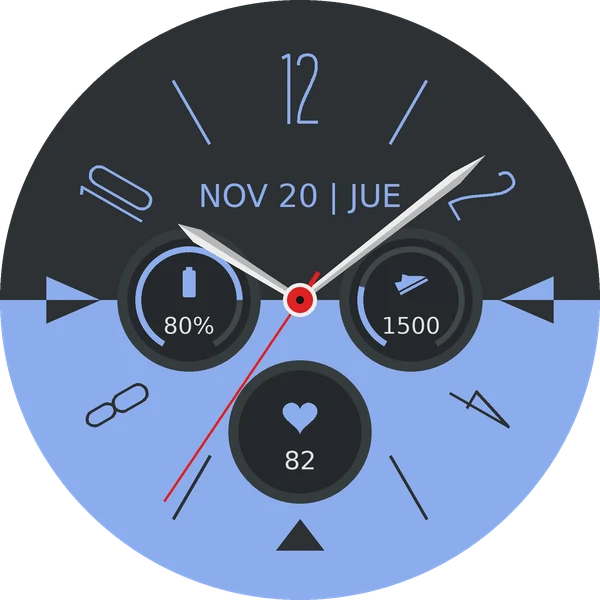
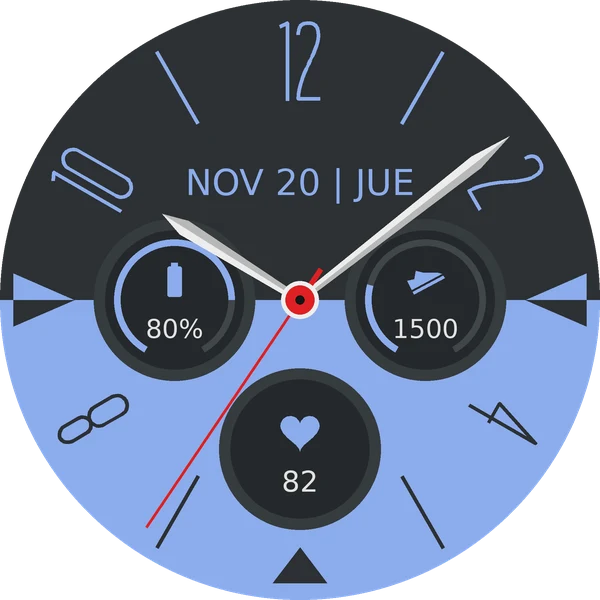
Horizonte: números, líneas, círculos y agujas agrandados para llenar la pantalla como la foto
Claude-Session: https://claude.ai/code/session_01RTdv2VrACuR4VFWJLA57hx

diff --git a/android/esferas-de-reloj/horizonte/src/main/java/cl/carlospnauto/esfera/FaceService.kt b/android/esferas-de-reloj/horizonte/src/main/java/cl/carlospnauto/esfera/FaceService.kt
@@ -61,6 +61,9 @@ private const val LEFT = 101
 private const val RIGHT = 102
 private const val BOTTOM = 103
 
+/** La foto tiene la esfera dentro de un aro; aquí llena la pantalla, así que todo se agranda igual */
+private const val ZOOM = 1.13f
+
 private val THEME = Choice(
     "tema", "Color del tema",
     listOf(
@@ -80,11 +83,11 @@ private val AMB = Choice("bajo", "Bajo consumo", listOf("Esfera completa tenue" 
 object Config : FaceConfig {
     override val slots = listOf(LEFT to "Círculo izquierdo (batería)", RIGHT to "Círculo derecho (pasos)", BOTTOM to "Círculo de abajo (ritmo cardíaco)")
     override val spots = listOf(
-        Spot(0f, -0.70f, Action.MEDIA, "Número 12", hit = 0.13f),
-        Spot(0.76f, 0f, Action.MUSIC, "Triángulo del 3", hit = 0.11f),
-        Spot(-0.76f, 0f, Action.ALARMS, "Triángulo del 9", hit = 0.11f),
-        Spot(0f, -0.31f, Action.TIMER, "Fecha", hit = 0.10f),
-        Spot(0f, 0.78f, Action.BATTERY, "Triángulo del 6", hit = 0.09f),
+        Spot(0f, -0.79f, Action.MEDIA, "Número 12", hit = 0.15f),
+        Spot(0.86f, 0f, Action.MUSIC, "Triángulo del 3", hit = 0.12f),
+        Spot(-0.86f, 0f, Action.ALARMS, "Triángulo del 9", hit = 0.12f),
+        Spot(0f, -0.35f, Action.TIMER, "Fecha", hit = 0.11f),
+        Spot(0f, 0.88f, Action.BATTERY, "Triángulo del 6", hit = 0.10f),
     )
     override val choices = listOf(THEME, HANDS, HCOLOR, SECOND, Smooth.CHOICE, GOAL, PLAYER, AMB)
     override val heartRate = true
@@ -98,9 +101,9 @@ class FaceService : WatchFaceService() {
         fun slot(id: Int, policy: DefaultComplicationDataSourcePolicy, b: RectF) =
             ComplicationSlot.createRoundRectComplicationSlotBuilder(id, factory, types, policy, ComplicationSlotBounds(b)).build()
         val slots = listOf(
-            slot(LEFT, DefaultComplicationDataSourcePolicy(SystemDataSources.DATA_SOURCE_WATCH_BATTERY, ComplicationType.RANGED_VALUE), RectF(0.195f, 0.38f, 0.435f, 0.62f)),
-            slot(RIGHT, DefaultComplicationDataSourcePolicy(SystemDataSources.DATA_SOURCE_STEP_COUNT, ComplicationType.SHORT_TEXT), RectF(0.565f, 0.38f, 0.805f, 0.62f)),
-            slot(BOTTOM, DefaultComplicationDataSourcePolicy(), RectF(0.38f, 0.60f, 0.62f, 0.84f)),
+            slot(LEFT, DefaultComplicationDataSourcePolicy(SystemDataSources.DATA_SOURCE_WATCH_BATTERY, ComplicationType.RANGED_VALUE), RectF(0.156f, 0.366f, 0.425f, 0.634f)),
+            slot(RIGHT, DefaultComplicationDataSourcePolicy(SystemDataSources.DATA_SOURCE_STEP_COUNT, ComplicationType.SHORT_TEXT), RectF(0.575f, 0.366f, 0.844f, 0.634f)),
+            slot(BOTTOM, DefaultComplicationDataSourcePolicy(), RectF(0.366f, 0.614f, 0.634f, 0.883f)),
         )
         return ComplicationSlotsManager(slots, currentUserStyleRepository)
     }
@@ -219,7 +222,7 @@ class HorizonRenderer(
     fun onCenter(x: Int, y: Int): Boolean {
         if (lastBounds.isEmpty || Choices.value(context, PLAYER) != 1) return false
         val (cx, cy, r) = geo()
-        return hypot(x - cx, y - cy) < r * 0.12f || hypot(x - cx, y - (cy - r * 0.17f)) < r * 0.07f
+        return hypot(x - cx, y - cy) < r * 0.13f * ZOOM || hypot(x - cx, y - (cy - r * 0.17f * ZOOM)) < r * 0.08f * ZOOM
     }
 
     fun openPlayer() {
@@ -266,8 +269,11 @@ class HorizonRenderer(
 
         if (ambient && Choices.value(context, AMB) == 1) {
             // Bajo consumo mínimo: solo la fecha y las agujas (en contorno)
+            canvas.save()
+            canvas.scale(ZOOM, ZOOM, cx, cy)
             drawDate(canvas, t, X(0f), Y(-0.31f), r, a(theme, 200))
             drawHands(canvas, cx, cy, r, t, theme, ambient = true)
+            canvas.restore()
             return
         }
 
@@ -280,6 +286,9 @@ class HorizonRenderer(
         fill.color = theme
         canvas.drawCircle(cx, cy, R, fill)
         canvas.restore()
+        // Todo lo de encima, agrandado para que la esfera llene la pantalla (como la foto, sin aro negro)
+        canvas.save()
+        canvas.scale(ZOOM, ZOOM, cx, cy)
 
         // ===== Números girados, líneas y triángulos =====
         val numH = r * 0.235f
@@ -340,6 +349,7 @@ class HorizonRenderer(
 
         // ===== Agujas =====
         drawHands(canvas, cx, cy, r, t, theme, ambient)
+        canvas.restore()
 
         // Siempre activa: la esfera completa, más tenue
         if (ambient) canvas.drawColor(Color.argb(150, 0, 0, 0))
